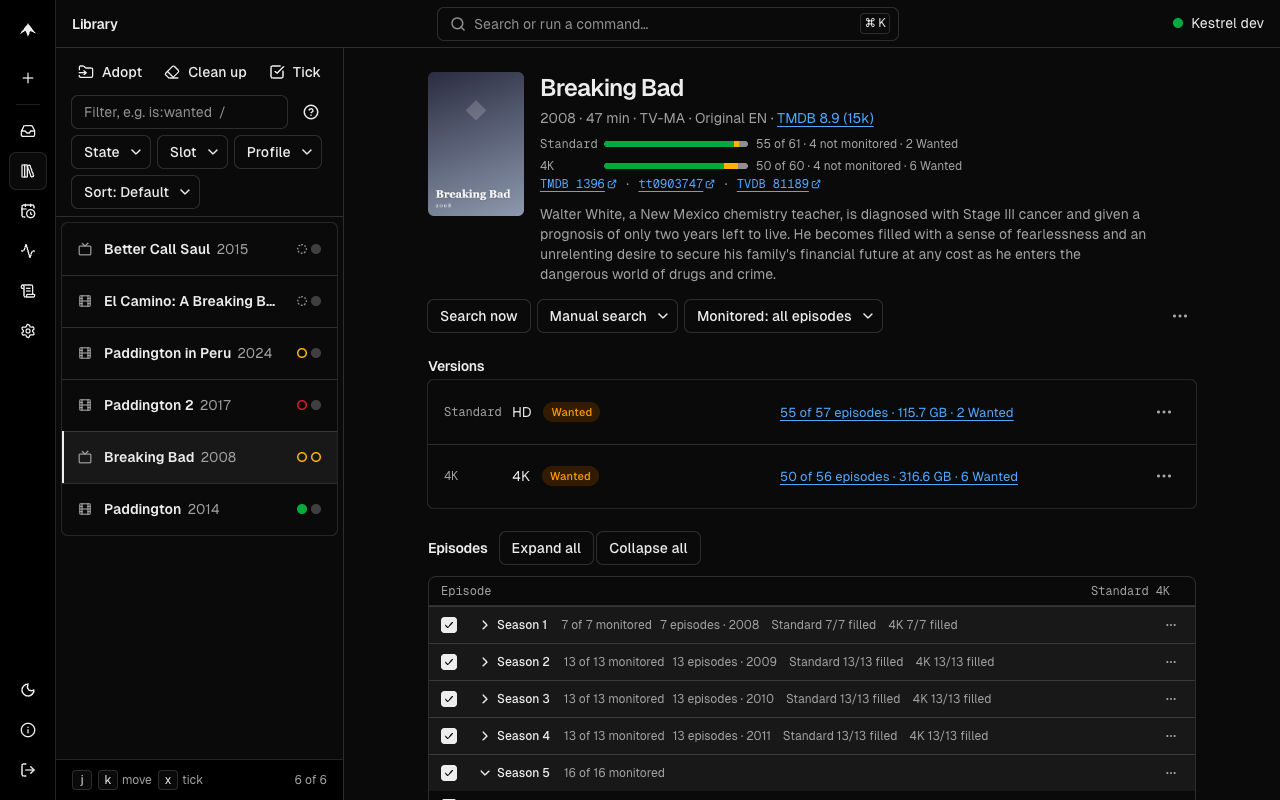
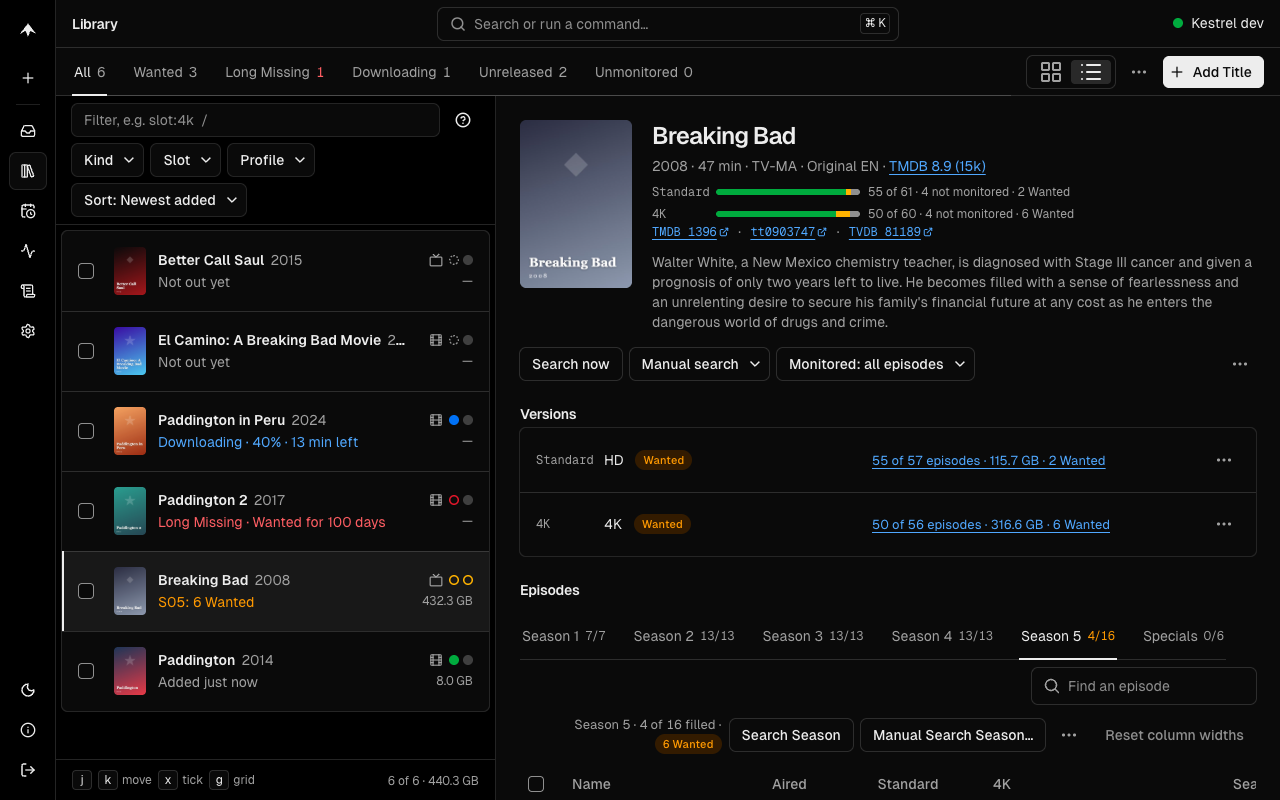
chore(release): 0.11.0

diff --git a/CHANGELOG.md b/CHANGELOG.md
@@ -1,5 +1,29 @@
 # Changelog
 
+## [0.11.0](https://github.com/hyprsh/kestrel/compare/v0.10.0...v0.11.0) (2026-10-31)
+
+> The Library gets state tabs, rich rows and a poster grid, and you can type `harbour s2e5` to find an episode and search it right there. Activity becomes tabs that take over Health, the Overview gets leaner with poster shelves, and Needs attention now flags stuck downloads and Silo Requests that Silo stopped asking about.
+
+### New Features
+
+* **library:** the Library has state tabs with counts (Wanted, Long Missing, Downloading, Unreleased, Unmonitored), rows with a poster, size and a line saying why a Title is in its state ("Long Missing · Wanted for 96 days", "S05: 6 Wanted"), a Sort menu, and a poster grid with a summary panel (`g` switches). Tick boxes are always there, and a floating bar changes the ticked Titles while the Title stays open. Adopt and Clean up move to the "…" menu ([#271](https://github.com/hyprsh/kestrel/pull/271)), closes [#267](https://github.com/hyprsh/kestrel/issues/267)
+* **library:** a Series' episodes are on season tabs, with Search and Manual search on every episode row and on each season instead of in a menu, and `s` and `m` from the keyboard. Find an episode takes `s2e5`, `2x05` or a name, and the Library filter does too: `harbour s2e5` or `harbour s2` lists that episode or season above the Titles, ready to search. Per-episode monitoring moves into the row and season menus ([#271](https://github.com/hyprsh/kestrel/pull/271)), closes [#268](https://github.com/hyprsh/kestrel/issues/268)
+* **web:** the Log and Manual search page through long results, and their text columns (and the episode table's names) can be widened by dragging or with the keyboard. Each table remembers its widths in your browser and has "Reset column widths" ([#271](https://github.com/hyprsh/kestrel/pull/271)), closes [#269](https://github.com/hyprsh/kestrel/issues/269)
+* **library:** Manual search shows only the Releases you can grab until you tick "Show rejected", and says how many it hides ([#271](https://github.com/hyprsh/kestrel/pull/271)), closes [#264](https://github.com/hyprsh/kestrel/issues/264)
+* **activity:** Activity has Grabs, Health and Background jobs tabs. The Overview replaces its Health section and Searching card with status chips, shows Downloading now and Recent requests as compact rows, and Recently added and Coming this week as poster shelves ([#270](https://github.com/hyprsh/kestrel/pull/270)), closes [#261](https://github.com/hyprsh/kestrel/issues/261), [#265](https://github.com/hyprsh/kestrel/issues/265)
+* **activity:** a download that is paused or hasn't moved for an hour shows as stuck in Activity and in Needs attention, with Search again and Cancel download ([#270](https://github.com/hyprsh/kestrel/pull/270)), closes [#249](https://github.com/hyprsh/kestrel/issues/249)
+* **silo:** a Silo Request that Silo hasn't asked about for six hours shows in Needs attention, where you can open it, end it or dismiss it ([#270](https://github.com/hyprsh/kestrel/pull/270)), closes [#256](https://github.com/hyprsh/kestrel/issues/256)
+* **web:** every row that stands for a Title shows its poster, including Needs attention, Activity's pipeline and Adoption matches ([#270](https://github.com/hyprsh/kestrel/pull/270)), closes [#262](https://github.com/hyprsh/kestrel/issues/262)
+* **silo:** `kestrel-silo` can tell Silo's Autoscan which Title folders changed, through a scan source that reads Kestrel's new `GET /folder-changes` feed, instead of Silo guessing from the scan endpoint. See the guide's "Telling Silo about changed Title folders through Autoscan" ([#259](https://github.com/hyprsh/kestrel/pull/259))
+
+### Bug Fixes
+
+* **library:** `is:downloading` and the Downloading count now find Titles with a Grab on its way. Before, they never matched anything ([#271](https://github.com/hyprsh/kestrel/pull/271))
+
+### Other Changes
+
+* **settings:** "Seasons open by default" is gone from Settings > Display, since seasons are tabs now. `seasons_open` in the Config File is still accepted and ignored ([#271](https://github.com/hyprsh/kestrel/pull/271))
+
 ## [0.10.0](https://github.com/hyprsh/kestrel/compare/v0.9.0...v0.10.0) (2026-10-31)
 
 > A Series' header now shows at a glance how much is on disk, downloading, wanted, missing for a long time and not monitored, and Manual search's "View in Activity" opens Activity on just the Grab you made.
